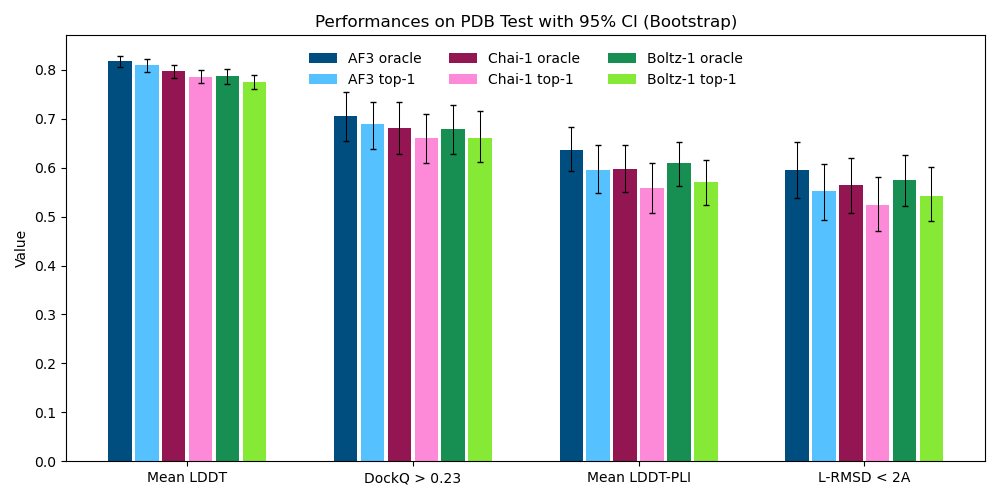
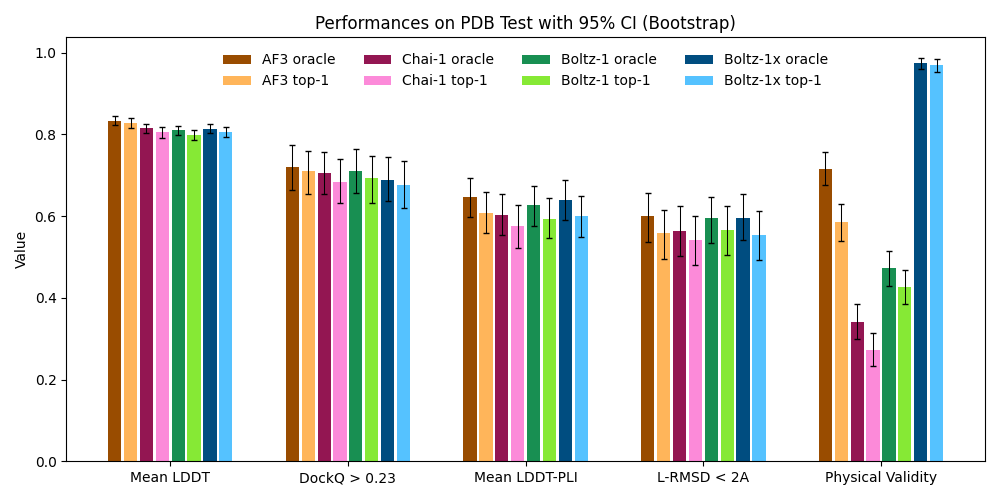
update plots

diff --git a/scripts/eval/aggregate_evals.py b/scripts/eval/aggregate_evals.py
@@ -294,7 +294,16 @@ def compute_boltz_metrics(preds, evals, name):
     return results
 
 
-def eval_models(chai_preds, chai_evals, af3_preds, af3_evals, boltz_preds, boltz_evals):
+def eval_models(
+    chai_preds,
+    chai_evals,
+    af3_preds,
+    af3_evals,
+    boltz_preds,
+    boltz_evals,
+    boltz_preds_x,
+    boltz_evals_x,
+):
     # Load preds and make sure we have predictions for all models
     chai_preds_names = {
         x.name.lower(): x
@@ -311,15 +320,22 @@ def eval_models(chai_preds, chai_evals, af3_preds, af3_evals, boltz_preds, boltz
         for x in Path(boltz_preds).iterdir()
         if not x.name.lower().startswith(".")
     }
+    boltz_preds_names_x = {
+        x.name.lower(): x
+        for x in Path(boltz_preds_x).iterdir()
+        if not x.name.lower().startswith(".")
+    }
 
     print("Chai preds", len(chai_preds_names))
     print("Af3 preds", len(af3_preds_names))
     print("Boltz preds", len(boltz_preds_names))
+    print("Boltzx preds", len(boltz_preds_names_x))
 
     common = (
         set(chai_preds_names.keys())
         & set(af3_preds_names.keys())
         & set(boltz_preds_names.keys())
+        & set(boltz_preds_names_x.keys())
     )
 
     # Remove examples in the validation set
@@ -371,12 +387,34 @@ def eval_models(chai_preds, chai_evals, af3_preds, af3_evals, boltz_preds, boltz
             print(f"Error evaluating Boltz {name}: {e}")
             continue
 
+        try:
+            boltz_results_x = compute_boltz_metrics(
+                boltz_preds_names_x[name],
+                boltz_evals_x,
+                name,
+            )
+        except Exception as e:
+            import traceback
+
+            traceback.print_exc()
+            print(f"Error evaluating Boltzx {name}: {e}")
+            continue
+
         for metric_name in af3_results:
             if metric_name in chai_results and metric_name in boltz_results:
                 if (
-                    af3_results[metric_name]["len"] == chai_results[metric_name]["len"]
-                    and af3_results[metric_name]["len"]
-                    == boltz_results[metric_name]["len"]
+                    (
+                        af3_results[metric_name]["len"]
+                        == chai_results[metric_name]["len"]
+                    )
+                    and (
+                        af3_results[metric_name]["len"]
+                        == boltz_results[metric_name]["len"]
+                    )
+                    and (
+                        af3_results[metric_name]["len"]
+                        == boltz_results_x[metric_name]["len"]
+                    )
                 ):
                     results.append(
                         {
@@ -426,6 +464,22 @@ def eval_models(chai_preds, chai_evals, af3_preds, af3_evals, boltz_preds, boltz
                             "value": boltz_results[metric_name]["top1"],
                         }
                     )
+                    results.append(
+                        {
+                            "tool": "Boltz-1x oracle",
+                            "target": name,
+                            "metric": metric_name,
+                            "value": boltz_results_x[metric_name]["oracle"],
+                        }
+                    )
+                    results.append(
+                        {
+                            "tool": "Boltz-1x top-1",
+                            "target": name,
+                            "metric": metric_name,
+                            "value": boltz_results_x[metric_name]["top1"],
+                        }
+                    )
                 else:
                     print(
                         "Different lengths",
@@ -434,6 +488,7 @@ def eval_models(chai_preds, chai_evals, af3_preds, af3_evals, boltz_preds, boltz
                         af3_results[metric_name]["len"],
                         chai_results[metric_name]["len"],
                         boltz_results[metric_name]["len"],
+                        boltz_results_x[metric_name]["len"],
                     )
             else:
                 print(
@@ -442,11 +497,47 @@ def eval_models(chai_preds, chai_evals, af3_preds, af3_evals, boltz_preds, boltz
                     metric_name,
                     metric_name in chai_results,
                     metric_name in boltz_results,
+                    metric_name in boltz_results_x,
                 )
 
     # Write the results to a file, ensure we only keep the target & metrics where we have all tools
     df = pd.DataFrame(results)
     return df
+
+
+def eval_validity_checks(df):
+    # Filter the dataframe to only include the targets in the validity checks
+    name_mapping = {
+        "af3": "AF3 top-1",
+        "chai": "Chai-1 top-1",
+        "boltz1": "Boltz-1 top-1",
+        "boltz1x": "Boltz-1x top-1",
+    }
+    top1 = df[df["model_idx"] == 0]
+    top1 = top1[["tool", "pdb_id", "valid"]]
+    top1["tool"] = top1["tool"].apply(lambda x: name_mapping[x])
+    top1 = top1.rename(columns={"tool": "tool", "pdb_id": "target", "valid": "value"})
+    top1["metric"] = "physical validity"
+    top1["target"] = top1["target"].apply(lambda x: x.lower())
+    top1 = top1[["tool", "target", "metric", "value"]]
+
+    name_mapping = {
+        "af3": "AF3 oracle",
+        "chai": "Chai-1 oracle",
+        "boltz1": "Boltz-1 oracle",
+        "boltz1x": "Boltz-1x oracle",
+    }
+    oracle = df[["tool", "model_idx", "pdb_id", "valid"]]
+    oracle = oracle.groupby(["tool", "pdb_id"])["valid"].max().reset_index()
+    oracle = oracle.rename(
+        columns={"tool": "tool", "pdb_id": "target", "valid": "value"}
+    )
+    oracle["tool"] = oracle["tool"].apply(lambda x: name_mapping[x])
+    oracle["metric"] = "physical validity"
+    oracle = oracle[["tool", "target", "metric", "value"]]
+    oracle["target"] = oracle["target"].apply(lambda x: x.lower())
+    out = pd.concat([top1, oracle])
+    return out
 
 
 def bootstrap_ci(series, n_boot=1000, alpha=0.05):
@@ -461,7 +552,7 @@ def bootstrap_ci(series, n_boot=1000, alpha=0.05):
         boot_means.append(sample.mean())
 
     boot_means = np.array(boot_means)
-    mean_val = np.mean(boot_means)
+    mean_val = np.mean(series)
     lower = np.percentile(boot_means, 100 * alpha / 2)
     upper = np.percentile(boot_means, 100 * (1 - alpha / 2))
     return mean_val, lower, upper
@@ -497,6 +588,8 @@ def plot_data(desired_tools, desired_metrics, df, dataset, filename):
         "Chai-1 top-1",
         "Boltz-1 oracle",
         "Boltz-1 top-1",
+        "Boltz-1x oracle",
+        "Boltz-1x top-1",
     ]
     plot_data = plot_data[tool_order]
     lower_data = lower_data[tool_order]
@@ -508,6 +601,7 @@ def plot_data(desired_tools, desired_metrics, df, dataset, filename):
         "rmsd<2": "L-RMSD < 2A",
         "lddt": "Mean LDDT",
         "dockq_>0.23": "DockQ > 0.23",
+        "physical validity": "Physical Validity",
     }
     plot_data = plot_data.rename(index=renaming)
     lower_data = lower_data.rename(index=renaming)
@@ -516,12 +610,14 @@ def plot_data(desired_tools, desired_metrics, df, dataset, filename):
 
     # Colors
     tool_colors = [
-        "#004D80",  # AF3 oracle
-        "#55C2FF",  # AF3 top-1
+        "#994C00",  # AF3 oracle
+        "#FFB55A",  # AF3 top-1
         "#931652",  # Chai-1 oracle
         "#FC8AD9",  # Chai-1 top-1
         "#188F52",  # Boltz-1 oracle
         "#86E935",  # Boltz-1 top-1
+        "#004D80",  # Boltz-1x oracle
+        "#55C2FF",  # Boltz-1x top-1
     ]
 
     fig, ax = plt.subplots(figsize=(10, 5))
@@ -559,7 +655,7 @@ def plot_data(desired_tools, desired_metrics, df, dataset, filename):
     ax.set_title(f"Performances on {dataset} with 95% CI (Bootstrap)")
 
     plt.tight_layout()
-    ax.legend(loc="lower center", bbox_to_anchor=(0.5, 0.85), ncol=3, frameon=False)
+    ax.legend(loc="lower center", bbox_to_anchor=(0.5, 0.85), ncols=4, frameon=False)
 
     plt.savefig(filename)
     plt.show()
@@ -567,6 +663,7 @@ def plot_data(desired_tools, desired_metrics, df, dataset, filename):
 
 def main():
     eval_folder = "../../boltz_results_final/"
+    output_folder = "../../boltz_results_final/"
 
     # Eval the test set
     chai_preds = eval_folder + "outputs/test/chai"
@@ -578,10 +675,27 @@ def main():
     boltz_preds = eval_folder + "outputs/test/boltz/predictions"
     boltz_evals = eval_folder + "evals/test/boltz"
 
+    boltz_preds_x = eval_folder + "outputs/test/boltzx/predictions"
+    boltz_evals_x = eval_folder + "evals/test/boltzx"
+
+    validity_checks = eval_folder + "physical_checks_test.csv"
+
+    df_validity_checks = pd.read_csv(validity_checks)
+    df_validity_checks = eval_validity_checks(df_validity_checks)
+
     df = eval_models(
-        chai_preds, chai_evals, af3_preds, af3_evals, boltz_preds, boltz_evals
+        chai_preds,
+        chai_evals,
+        af3_preds,
+        af3_evals,
+        boltz_preds,
+        boltz_evals,
+        boltz_preds_x,
+        boltz_evals_x,
     )
-    df.to_csv(eval_folder + "results_test.csv", index=False)
+
+    df = pd.concat([df, df_validity_checks]).reset_index(drop=True)
+    df.to_csv(output_folder + "results_test.csv", index=False)
 
     desired_tools = [
         "AF3 oracle",
@@ -590,10 +704,12 @@ def main():
         "Chai-1 top-1",
         "Boltz-1 oracle",
         "Boltz-1 top-1",
+        "Boltz-1x oracle",
+        "Boltz-1x top-1",
     ]
-    desired_metrics = ["lddt", "dockq_>0.23", "lddt_pli", "rmsd<2"]
+    desired_metrics = ["lddt", "dockq_>0.23", "lddt_pli", "rmsd<2", "physical validity"]
     plot_data(
-        desired_tools, desired_metrics, df, "PDB Test", eval_folder + "plot_test.png"
+        desired_tools, desired_metrics, df, "PDB Test", output_folder + "plot_test.pdf"
     )
 
     # Eval CASP
@@ -606,13 +722,30 @@ def main():
     boltz_preds = eval_folder + "outputs/casp15/boltz/predictions"
     boltz_evals = eval_folder + "evals/casp15/boltz"
 
+    boltz_preds_x = eval_folder + "outputs/casp15/boltzx/predictions"
+    boltz_evals_x = eval_folder + "evals/casp15/boltzx"
+
+    validity_checks = eval_folder + "physical_checks_casp.csv"
+
+    df_validity_checks = pd.read_csv(validity_checks)
+    df_validity_checks = eval_validity_checks(df_validity_checks)
+
     df = eval_models(
-        chai_preds, chai_evals, af3_preds, af3_evals, boltz_preds, boltz_evals
+        chai_preds,
+        chai_evals,
+        af3_preds,
+        af3_evals,
+        boltz_preds,
+        boltz_evals,
+        boltz_preds_x,
+        boltz_evals_x,
     )
-    df.to_csv(eval_folder + "results_casp.csv", index=False)
+
+    df = pd.concat([df, df_validity_checks]).reset_index(drop=True)
+    df.to_csv(output_folder + "results_casp.csv", index=False)
 
     plot_data(
-        desired_tools, desired_metrics, df, "CASP15", eval_folder + "plot_casp.png"
+        desired_tools, desired_metrics, df, "CASP15", output_folder + "plot_casp.pdf"
     )
 
 
